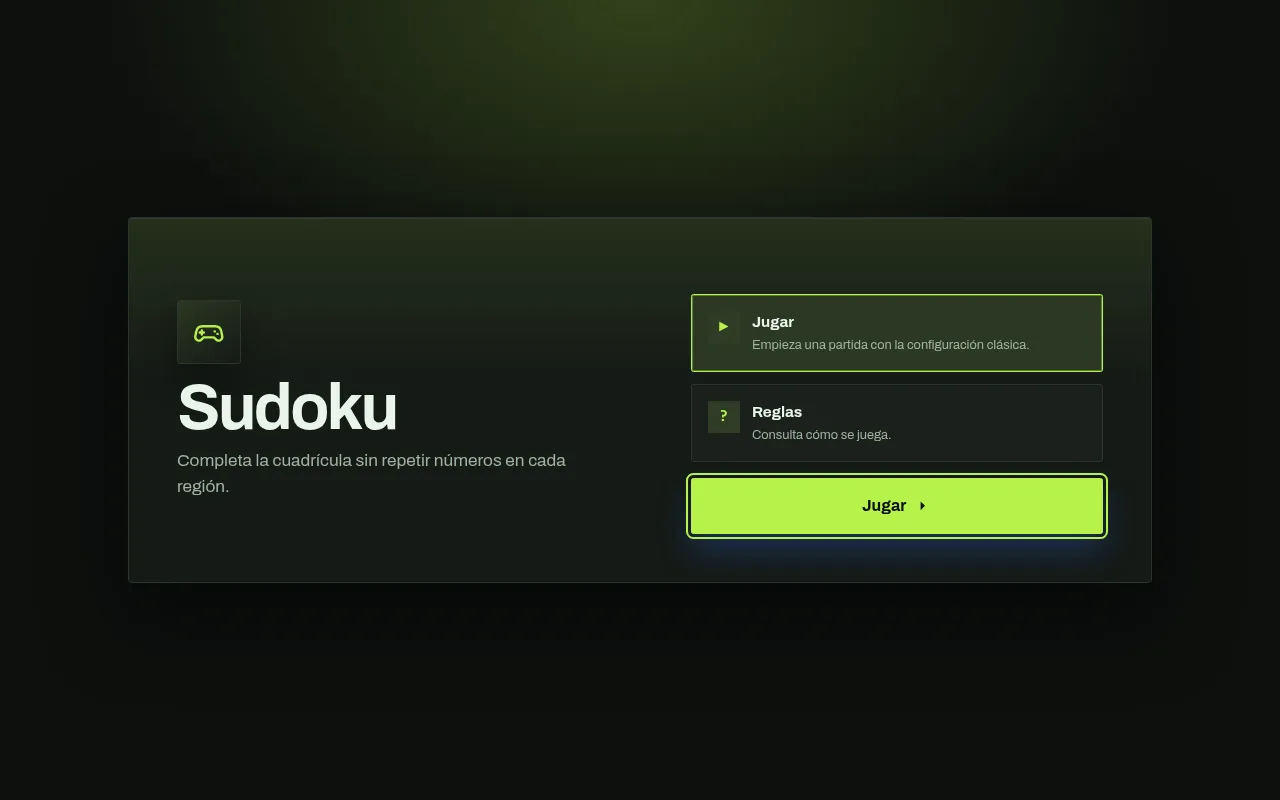
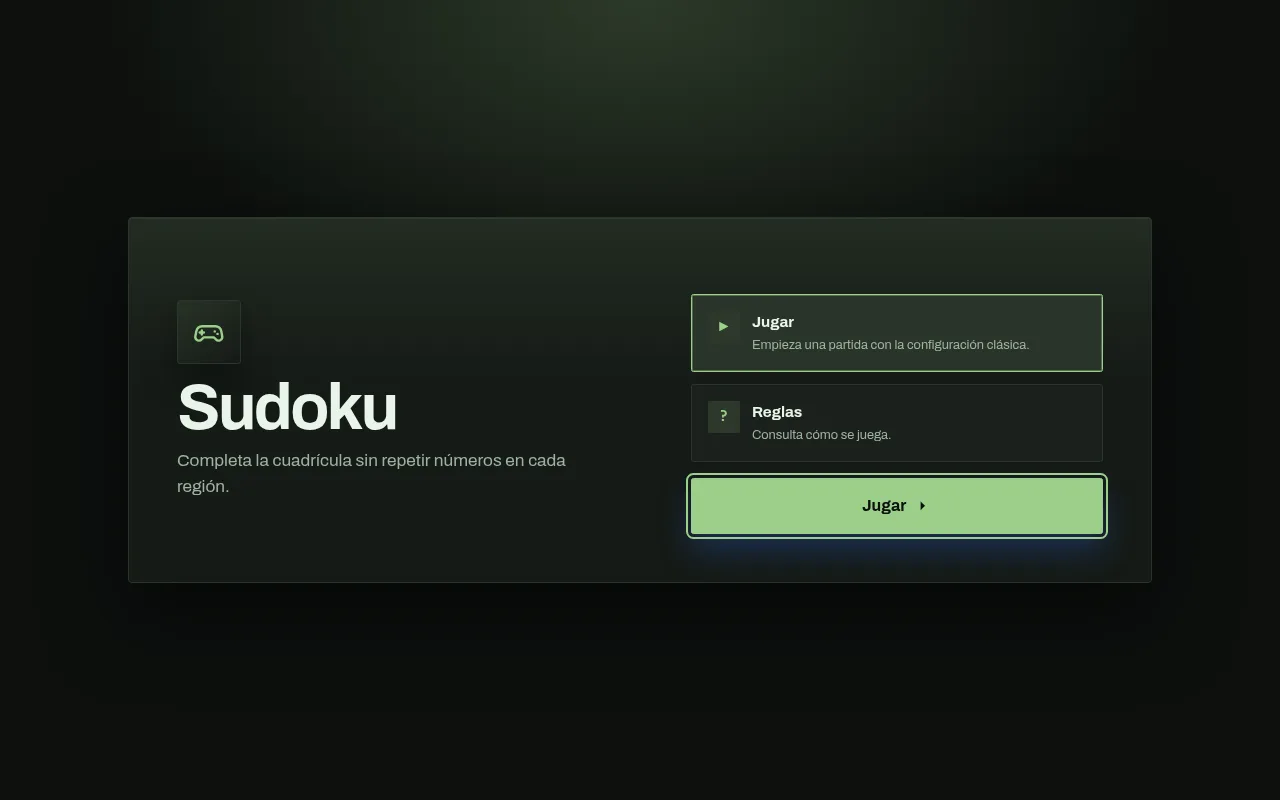
Amplía los tableros y suaviza los acentos del arcade
Aumenta el tamaño de juego en los 12 títulos, reduce el texto de las pantallas de partida y baja la saturación de los acentos más fosforescentes.

🤖 Generated with Codebuff

Changed region(s): [[0.5312, 0.5938, 0.875, 0.6875], [0.1562, 0.4062, 0.1875, 0.4375]]

diff --git a/web-juegos/css/arcade.css b/web-juegos/css/arcade.css
@@ -434,6 +434,14 @@ html.arcade-playing[data-arcade-game="juego-sudoku"] .lateral {
     width: 100%;
 }
 
+html.arcade-playing[data-arcade-game="juego-7-letras"] .lateral {
+    grid-template-columns: minmax(0, 1fr);
+}
+
+html.arcade-playing[data-arcade-game="juego-7-letras"] .tarjeta--datos {
+    display: none;
+}
+
 html.arcade-playing[data-arcade-game="juego-7-letras"] .lateral > .btn,
 html.arcade-playing[data-arcade-game="juego-sopa-letras"] .lateral > .btn,
 html.arcade-playing[data-arcade-game="juego-sudoku"] .lateral > .btn,
@@ -491,8 +499,22 @@ html.arcade-playing .nota,
 html.arcade-playing .leyenda,
 html.arcade-playing .teclas,
 html.arcade-playing .juego__nota,
-html.arcade-playing .panel--plegable {
+html.arcade-playing .panel--plegable,
+html.arcade-playing .etiqueta,
+html.arcade-playing .guardado,
+html.arcade-playing .aviso,
+html.arcade-playing .partida__nota,
+html.arcade-playing .nota__datos,
+html.arcade-playing #capa-texto,
+html.arcade-playing #capa-eyebrow {
     display: none;
+}
+
+html.arcade-playing[data-arcade-game="juego-wend"] {
+    --color-10: oklch(89% 0.06 125);
+    --lima: oklch(89% 0.06 125);
+    --lima-oscura: oklch(82% 0.07 125);
+    --fondo-4: oklch(94% 0.03 125);
 }
 
 html.arcade-playing[data-arcade-game="juego-zip"] .lateral {
@@ -505,36 +527,51 @@ html.arcade-playing[data-arcade-game="juego-zip"] .disposicion {
 }
 
 html.arcade-playing[data-arcade-game="juego-memoriza-carta"] .marco {
-    width: min(100%, 24rem, 48vh);
+    width: min(100%, 32rem, 64vh);
+}
+
+html.arcade-playing[data-arcade-game="juego-7-letras"] .marco {
+    max-width: min(34rem, 68vh);
+    margin-inline: auto;
+}
+
+html.arcade-playing[data-arcade-game="juego-7-letras"] .hexagono {
+    width: clamp(4.6rem, 12vw, 7rem);
+    height: clamp(5.2rem, 13.5vw, 8rem);
+}
+
+html.arcade-playing[data-arcade-game="juego-adivina-numero"] .game-card {
+    width: min(100%, 40rem);
+}
+
+html.arcade-playing[data-arcade-game="juego-zip"] .marco {
+    max-width: min(40rem, 80vh);
+    margin-inline: auto;
 }
 
 html.arcade-playing[data-arcade-game="juego-palabra-oculta"] .tablero {
-    max-width: min(22rem, 42vh);
+    max-width: min(30rem, 60vh);
     margin-inline: auto;
 }
 
 html.arcade-playing[data-arcade-game="juego-sopa-letras"] .tablero {
-    max-width: min(24rem, 48vh);
+    max-width: min(30rem, 60vh);
     margin-inline: auto;
 }
 
 html.arcade-playing[data-arcade-game="juego-sudoku"] .tablero {
-    max-width: min(22rem, 44vh);
+    max-width: min(28rem, 56vh);
     margin-inline: auto;
 }
 
 html.arcade-playing[data-arcade-game="juego-wend"] .marco {
-    max-width: min(28rem, 45vh);
+    max-width: min(34rem, 50vh);
     margin-inline: auto;
 }
 
 html.arcade-playing[data-arcade-game="juego-wend"] .panel--palabras {
     max-height: 13vh;
     overflow-y: auto;
-}
-
-html.arcade-playing[data-arcade-game="juego-wend"] .marco {
-    max-width: min(28rem, 32vh);
 }
 
 html.arcade-playing.arcade-rethemed .tarjeta,
@@ -558,12 +595,12 @@ html.arcade-playing[data-arcade-game="juego-sudoku"] .teclado button {
 html.arcade-playing[data-arcade-game="juego-patches"] .tablero,
 html.arcade-playing[data-arcade-game="juego-tango"] .tablero,
 html.arcade-playing[data-arcade-game="juego-queens"] .marco {
-    max-width: min(36rem, 72vh);
+    max-width: min(40rem, 80vh);
     margin-inline: auto;
 }
 
 html.arcade-playing[data-arcade-game="juego-serpiente"] .marco {
-    max-width: min(30rem, 60vh);
+    max-width: min(36rem, 72vh);
     margin-inline: auto;
 }
 

diff --git a/web-juegos/js/arcade-shell.js b/web-juegos/js/arcade-shell.js
@@ -7,7 +7,7 @@
             text: "#f7efdf",
             muted: "#b9a6cf",
             line: "#3d2a52",
-            accent: "#f0b429",
+            accent: "#d8a33c",
             accentText: "#1b1226",
             card: "#2e2040",
             display: '"Fraunces", Georgia, serif',
@@ -39,7 +39,7 @@
             text: "#122a4a",
             muted: "#5a6d88",
             line: "#c3d6ef",
-            accent: "#ff7a3d",
+            accent: "#e88355",
             accentText: "#231407",
             card: "#ffffff",
             display: '"Archivo", system-ui, sans-serif',
@@ -119,7 +119,7 @@
             text: "#1b2a4a",
             muted: "#6b6a5f",
             line: "#dccdad",
-            accent: "#1f4fbf",
+            accent: "#2d5f9e",
             accentText: "#ffffff",
             card: "#fffaf0",
             display: '"IBM Plex Mono", ui-monospace, monospace',
@@ -135,7 +135,7 @@
             text: "#e8f5e9",
             muted: "#9db3a1",
             line: "#2a352d",
-            accent: "#b6f24a",
+            accent: "#9ccf8a",
             accentText: "#0d100e",
             card: "#1b211c",
             display: '"Archivo", system-ui, sans-serif',
@@ -183,7 +183,7 @@
             text: "#f2f4ff",
             muted: "#a8b0cb",
             line: "#2f3a5c",
-            accent: "#7d5cff",
+            accent: "#8477b8",
             accentText: "#ffffff",
             card: "#1e2740",
             display: '"Space Grotesk", ui-sans-serif, sans-serif',
